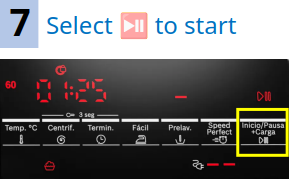
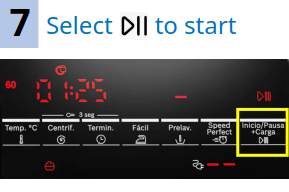
fixes

Changed region(s): [[0.4048, 0.0625, 0.5294, 0.2188], [0.9965, 0.2812, 1.0, 0.3125]]

diff --git a/styles.css b/styles.css
@@ -51,7 +51,7 @@ h1 { margin: 0; font-size: 1.2rem; }
     flex-direction: column;
     align-items: center;
     justify-content: center;
-    color: #95a5a6;
+    color: #000000;
     font-size: 0.75rem;
     cursor: pointer;
     width: 25%;
@@ -211,34 +211,36 @@ tr:last-child td { border-bottom: none; }
     display: grid;
     /* Define 3 columnas de ancho flexible e igual */
     grid-template-columns: repeat(3, 1fr); 
-    /* CAMBIO CLAVE: Forzar 0px de espacio entre filas */
-    row-gap: 0px;
-    /* Mantenemos el espacio horizontal para que no se peguen lateralmente */
-    column-gap: 10px;
+    background-color: white;
 
-    margin-top: 20px;
-    margin-bottom: 10px;
+    gap: 4px;
+    margin-top: 15px;
+    margin-bottom: 20px;
 }
 
-
-/* 2. Estilo de la imagen dentro de cada celda */
-#washer-grid .grid-item img {
-    /* Hace que la imagen ocupe todo el ancho de su contenedor (la celda de la cuadrícula) */
-    width: 100%;
-    /* Altura automática para mantener el aspecto y evitar que se amontonen */
-    height: auto; 
-    /* Asegura que la imagen cubra el espacio manteniendo su relación de aspecto */
-    object-fit: cover; 
-    /* Permite que la imagen sea clickeable y tenga un aspecto limpio */
-    cursor: pointer;
-    border-radius: 5px; 
-}
-
-/* Opcional: Asegurar que el contenedor sea cuadrado para un diseño uniforme */
+/* 2. Ajuste de los elementos internos (Contenedor de cada imagen) */
 #washer-grid .grid-item {
-    aspect-ratio: 1 / 1; /* Mantiene la relación de aspecto 1:1 (cuadrado) */
+    aspect-ratio: 3/ 2; 
     overflow: hidden;
-    /* NUEVO: Aseguramos que no haya margen vertical extra en los contenedores de las imágenes */
     margin: 0; 
     padding: 0;
+
+    border: 1px solid hsl(0, 0%, 0%);
+}
+
+/* 3. Estilo de la imagen dentro de cada celda */
+#washer-grid .grid-item img {
+    width: 100%;
+    height: 100%; 
+    
+    /* Mantiene la imagen completa dentro del cuadrado */
+    object-fit: contain;
+    
+    cursor: pointer;
+    border-radius: 0;
+    margin: 0;
+    padding: 0;
+
+    /* Mantenemos display: block; como soporte, aunque vertical-align es más efectivo aquí */
+    display: block; 
 }

diff --git a/es.js b/es.js
@@ -32,7 +32,7 @@ const ES = {
 
     // Mantener el resto de tu contenido existente...
     "lavadora_titulo": "Cómo utilizar la lavadora:",
-    "lavadora_desc": "1. Vaciar los bolsillos.\n2. Colocar la ropa dentro del tambor.\n3. Añadir la pastilla de detergente dentro del tambor.\n4. Cerrar la puerta.\n5. Seleccionar el programa girando el selector. El programa más común es 'Sintéticos'.\n6. Seleccionar la temperatura y el tiempo. Al pulsar el botón 'Rápido/Perfecto' se reduce el tiempo de lavado.\n7. Pulsar el botón '⏯' para iniciar la lavadora.\n8. Una vez finalizado el lavado, girar el selector a la posición superior (parada).\n9. Abrir la puerta y sacar la ropa.",
+    "lavadora_desc": "1. Vaciar los bolsillos.\n2. Colocar la ropa dentro del tambor.\n3. Añadir la pastilla de detergente dentro del tambor.\n4. Cerrar la puerta.\n5. Seleccionar el programa girando el selector. El programa más común es 'Sintéticos'.\n6. Seleccionar la temperatura y el tiempo. Al pulsar el botón 'Rápido/Perfecto' se reduce el tiempo de lavado.\n7. Pulsar el botón ⏯ para iniciar la lavadora.\n8. Una vez finalizado el lavado, girar el selector a la posición superior (parada).\n9. Abrir la puerta y sacar la ropa.",
     "lavadora_img": [
         "images/wash_01_es.png", "images/wash_02_es.png", "images/wash_03_es.png",
         "images/wash_04_es.png", "images/wash_05_es.png", "images/wash_06_es.png",

diff --git a/index.html b/index.html
@@ -69,8 +69,8 @@
                 </div>
                 <hr>
                 <p data-key="lavadora_desc"></p>
-                <div id="washer-grid" class="grid-container"></div>
                 <div class="spacer-80"></div>
+                <div id="washer-grid" class="grid-container"></div>
             </div>
 
             <div id="toldo-content" class="appliance-content" style="display: none;">
